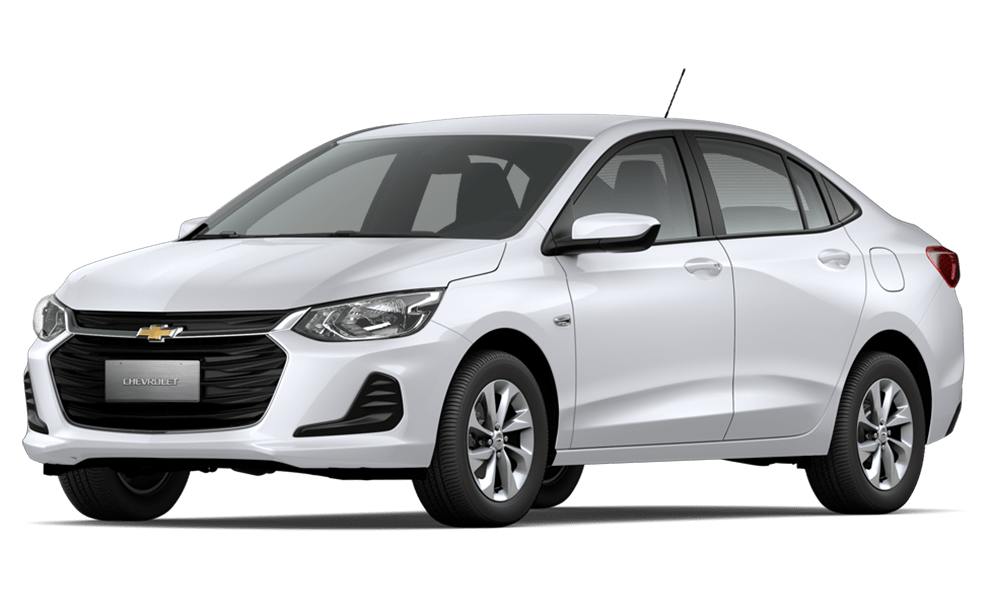
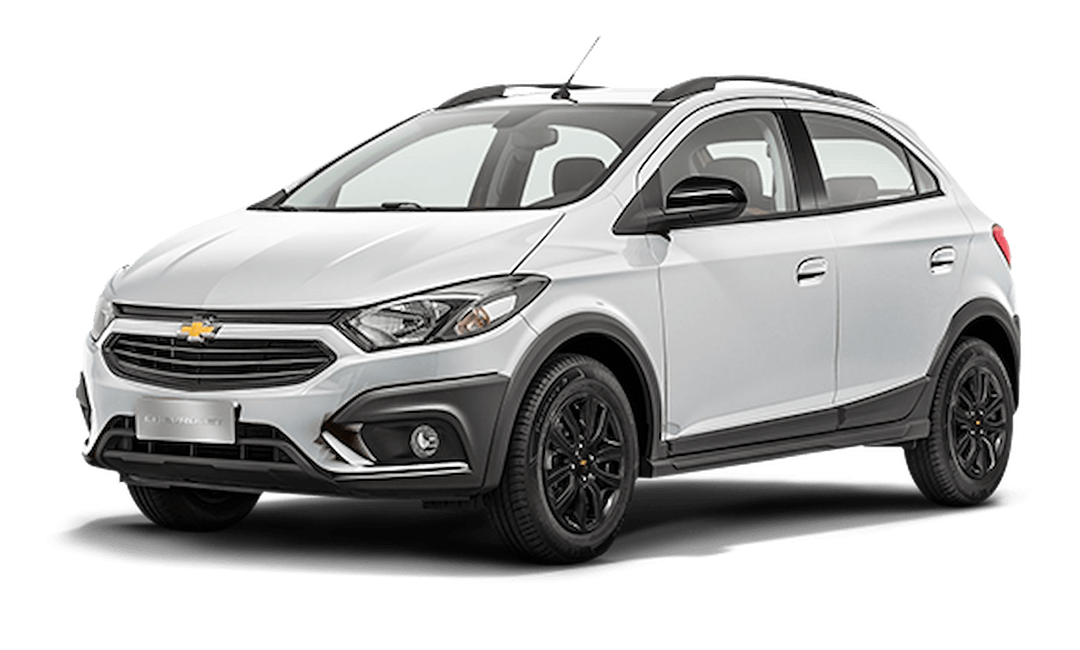
Add página de compras + img's melhoradas

diff --git a/kart.html b/kart.html
@@ -4,7 +4,7 @@
 <head>
     <meta charset="UTF-8">
     <meta name="viewport" content="width=device-width, initial-scale=1.0">
-    <title>Car Shop</title>
+    <title>Carrinho</title>
     <link rel="stylesheet" href="style.css">
     <style>
         @import url('https://fonts.googleapis.com/css2?family=Anton&family=Oswald:wght@200..700&display=swap');
@@ -16,29 +16,12 @@
 <body>
     <header>
         <h1><a href="index.html">Car Shop</a></h1>
-        <a href="kart.html"><img src="img/AddKart.png" alt="AddKart" class="AddKart"></a>
+        <img src="img/AddKart.png" alt="AddKart" class="AddKart">
     </header>
-
+        
     <section>
-        <div class="Cars">
-            <div class="CarBox">
-                <img src="img/Hyundai.png" alt="Hyundai" class="CarImg">
-                <p>Hyundai</p>
-            </div>
 
-            <div class="CarBox">
-                <img src="img/Fiat Agro.png" alt="Fiat" class="CarImg">
-                <p>Fiat Agro</p>
-            </div>
-
-            <div class="CarBox">
-                <img src="img/Chevrolet Onix.png" alt="Hyundai" class="CarImg">
-                <p>Chevrol. Onix</p>
-            </div>
-        </div>
     </section>
-
-    <script src="script.js"></script>
 </body>
 
 </html>

diff --git a/style.css b/style.css
@@ -1,6 +1,11 @@
 body {
     background-color: #f0f0f0;
     z-index: 1;
+
+    a {
+        color: inherit;
+        text-decoration: none;
+    }
 }
 
 header {
@@ -17,7 +22,6 @@ header {
     & h1 {
         cursor: pointer;
         position: relative;
-        text-decoration: none;
         top: -45px;
         left: 550px;
     }
@@ -52,13 +56,14 @@ header {
     & .CarImg {
         position: relative;
         width: 280px;
-        height: 200px;
+        height: 170px;
         top: 10px;
     }
 
     & p {
+        cursor: auto;
         position: relative;
-        top: -40px;
+        top: -10px;
         font-family: "Anton", serif;
         font-size: 40px;
     }

diff --git a/kart.css b/kart.css
@@ -1,0 +1,36 @@
+body {
+    background-color: #f0f0f0;
+    z-index: 1;
+
+    a {
+        color: inherit;
+        text-decoration: none;
+    }
+}
+
+header {
+    position: fixed;
+    font-family: "Kanit", sans-serif;
+    font-size: 25px;
+    background-color: #ffff;
+    width: 100%;
+    height: 60px;
+    top: 0;
+    left: 0;
+    z-index: 10;
+
+    & h1 {
+        cursor: pointer;
+        position: relative;
+        top: -45px;
+        left: 550px;
+    }
+
+    & .AddKart {
+        position: absolute;
+        cursor: pointer;
+        height: 30px;
+        left: 1200px;
+        top: 15px;
+    }
+}
